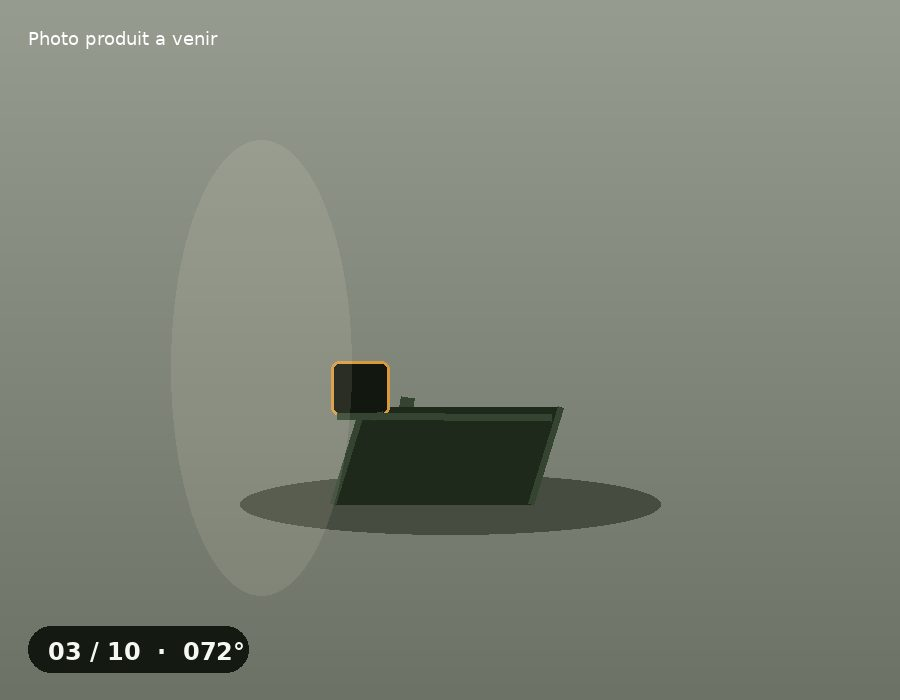
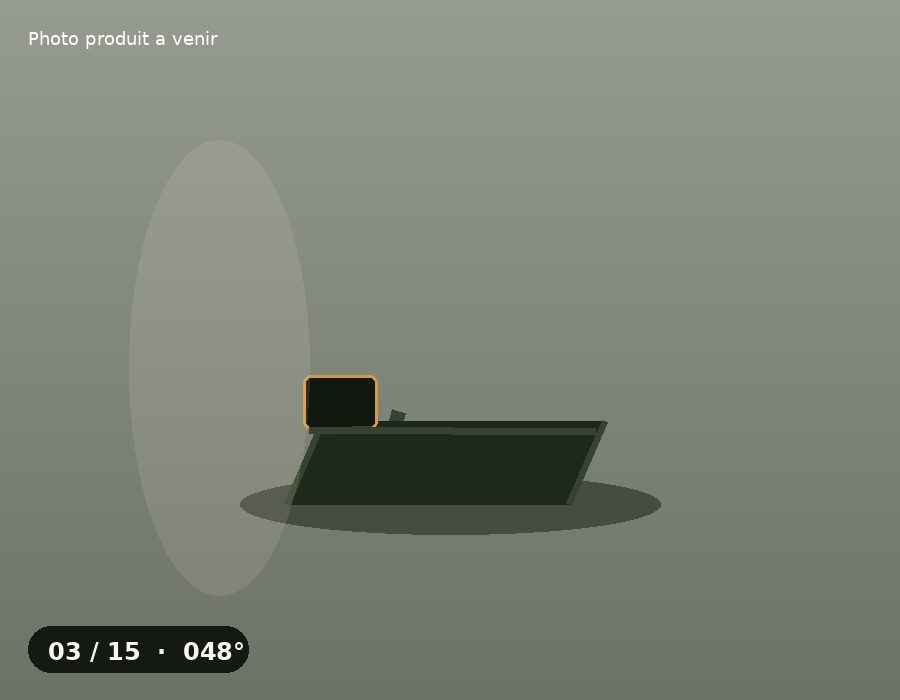
Switch the 360° viewer from 10 to 15 frames
Update FRAME_COUNT and regenerate the placeholder sequence as
tapis-01..15.jpg. Drag sensitivity already derived pxPerFrame from
the viewer's width divided by FRAME_COUNT, so it recalibrates
automatically for the extra frames without further tuning.

Claude-Session: https://claude.ai/code/session_014DWTKtz2zmAef82j2A63fS

Changed region(s): [[0.3111, 0.51, 0.6844, 0.72], [0.2178, 0.9, 0.2489, 0.96], [0.1244, 0.9, 0.1556, 0.96]]

diff --git a/index.html b/index.html
@@ -80,7 +80,7 @@
       <div class="viewer360-wrap">
         <div class="viewer360" id="viewer360" role="img" aria-label="Vue à 360 degrés du NordicTrack X24. Glissez horizontalement ou utilisez les flèches gauche/droite pour tourner autour de l'appareil." tabindex="0">
           <img class="viewer360-img" id="viewer360-img" src="images/360/tapis-01.jpg" alt="" draggable="false">
-          <span class="viewer360-frame" id="viewer360-frame" aria-hidden="true">01 / 10</span>
+          <span class="viewer360-frame" id="viewer360-frame" aria-hidden="true">01 / 15</span>
           <span class="viewer360-hint" id="viewer360-hint" aria-hidden="true">↔ Glissez pour faire pivoter</span>
         </div>
       </div>

diff --git a/script.js b/script.js
@@ -33,13 +33,14 @@ function initViewer360() {
 
   if (!viewer || !img) return;
 
-  var FRAME_COUNT = 10;
+  var FRAME_COUNT = 15;
   var PATH = "images/360/tapis-";
 
   // A drag spanning this fraction of the viewer's own width completes one
   // full rotation. Deriving it from the element's rendered size (rather
   // than a fixed pixel value) keeps the feel consistent across phone and
-  // desktop widths, and compensates for having only 10 source photos.
+  // desktop widths, and compensates for having only FRAME_COUNT source
+  // photos rather than true continuous footage.
   var ROTATION_WIDTH_FACTOR = 0.75;
 
   var currentFrame = 1;
